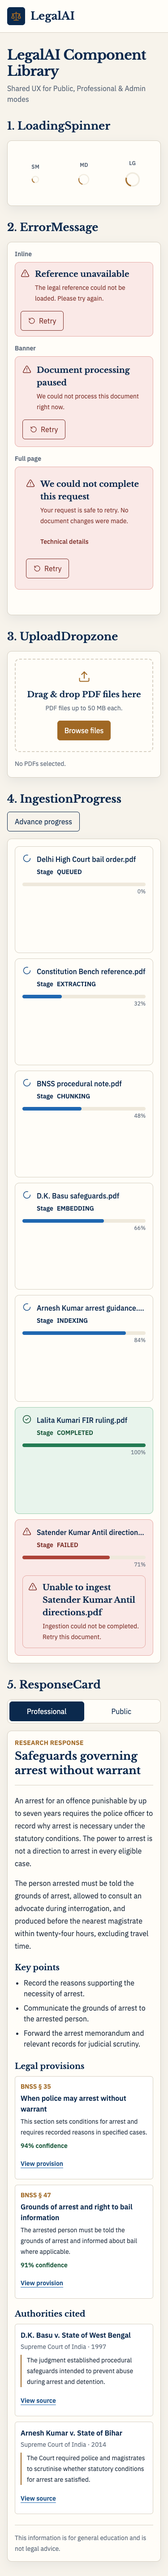
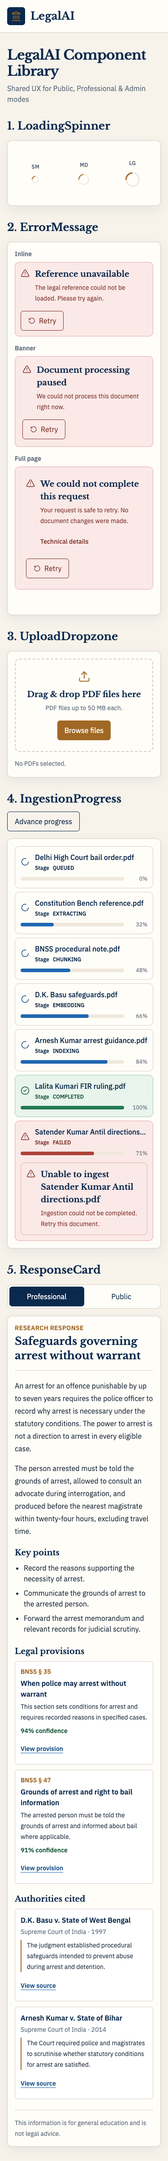
fix(ux): tighten responsive component preview

Changed region(s): [[0.0293, 0.0, 0.88, 0.9965], [0.9093, 0.5917, 0.9387, 0.6228], [0.7627, 0.0623, 0.792, 0.0934]]

diff --git a/frontend/components/shared/IngestionProgress.tsx b/frontend/components/shared/IngestionProgress.tsx
@@ -91,7 +91,7 @@ export function IngestionProgress({ jobs }: IngestionProgressProps) {
   }
 
   return (
-    <ul aria-label="Ingestion jobs" className="space-y-3" data-testid="ingestion-jobs">
+    <ul aria-label="Ingestion jobs" className="space-y-2" data-testid="ingestion-jobs">
       {jobs.map((job) => {
         const progress = clampProgress(job.progress);
         const isFailed = job.stage === 'FAILED';
@@ -108,17 +108,17 @@ export function IngestionProgress({ jobs }: IngestionProgressProps) {
 
         return (
           <li
-            className={`min-w-0 rounded-[var(--radius-standard)] border p-4 ${rowBorder} ${rowSurface}`}
+            className={`min-w-0 rounded-[var(--radius-standard)] border p-3 sm:p-4 ${rowBorder} ${rowSurface}`}
             key={job.id}
           >
-            <div className="flex min-w-0 items-start gap-3">
+            <div className="flex min-w-0 items-center gap-3">
               <StageIcon stage={job.stage} />
-              <div className="min-w-0 flex-1">
+              <div className="min-w-0 flex-1 sm:flex sm:items-center sm:justify-between sm:gap-3">
                 <p className="truncate font-medium text-[var(--color-ink)]" title={job.filename}>
                   {job.filename}
                 </p>
                 <p
-                  className={`mt-1 flex min-h-6 items-center gap-2 text-sm font-semibold ${stageLabelClass(job.stage)}`}
+                  className={`mt-1 flex shrink-0 items-center gap-2 text-xs font-semibold sm:mt-0 ${stageLabelClass(job.stage)}`}
                 >
                   <span>Stage</span>
                   <span>{job.stage}</span>
@@ -126,7 +126,7 @@ export function IngestionProgress({ jobs }: IngestionProgressProps) {
               </div>
             </div>
 
-            <div className="mt-3 min-h-8">
+            <div className="mt-2 flex items-center gap-3">
               <div
                 aria-label={`${job.filename} progress`}
                 aria-valuemax={100}
@@ -141,10 +141,12 @@ export function IngestionProgress({ jobs }: IngestionProgressProps) {
                   style={{ width: `${progress}%` }}
                 />
               </div>
-              <p className="mt-1 text-right text-xs text-[var(--color-muted)]">{progress}%</p>
+              <p className="w-10 shrink-0 text-right text-xs text-[var(--color-muted)]">
+                {progress}%
+              </p>
             </div>
 
-            <div className="mt-3 min-h-24">
+            <div className="empty:hidden empty:pt-0 pt-3" data-ingestion-error-region>
               {isFailed ? (
                 <ErrorMessage
                   message={fallbackFailureMessage}

diff --git a/frontend/components/shared/IngestionProgress.test.tsx b/frontend/components/shared/IngestionProgress.test.tsx
@@ -1,4 +1,4 @@
-import { cleanup, render, screen } from '@testing-library/react';
+import { cleanup, render, screen, within } from '@testing-library/react';
 import { afterEach, describe, expect, it } from 'vitest';
 
 import { IngestionProgress, type IngestionJob } from './IngestionProgress';
@@ -160,6 +160,36 @@ describe('IngestionProgress', () => {
     expect(screen.getByRole('progressbar', { name: 'polling.pdf progress' })).toHaveAttribute(
       'aria-valuenow',
       '48',
+    );
+  });
+
+  it('keeps the same reserved error region when a polling job fails', () => {
+    const { rerender } = render(
+      <IngestionProgress
+        jobs={[{ id: 'polling', filename: 'polling.pdf', stage: 'INDEXING', progress: 80 }]}
+      />,
+    );
+
+    const initialRow = screen.getByText('polling.pdf').closest('li');
+    const initialErrorRegion = initialRow?.querySelector('[data-ingestion-error-region]');
+
+    expect(initialRow).not.toBeNull();
+    expect(initialErrorRegion).not.toBeNull();
+    expect(within(initialErrorRegion as HTMLElement).queryByRole('alert')).not.toBeInTheDocument();
+
+    rerender(
+      <IngestionProgress
+        jobs={[{ id: 'polling', filename: 'polling.pdf', stage: 'FAILED', progress: 80 }]}
+      />,
+    );
+
+    const failedRow = screen.getByText('polling.pdf').closest('li');
+    const failedErrorRegion = failedRow?.querySelector('[data-ingestion-error-region]');
+
+    expect(failedRow).toBe(initialRow);
+    expect(failedErrorRegion).toBe(initialErrorRegion);
+    expect(within(failedErrorRegion as HTMLElement).getByRole('alert')).toHaveTextContent(
+      'Ingestion could not be completed. Retry this document.',
     );
   });
 });

diff --git a/frontend/app/dev/component-preview/PreviewGallery.tsx b/frontend/app/dev/component-preview/PreviewGallery.tsx
@@ -1,6 +1,6 @@
 'use client';
 
-import { Scale } from 'lucide-react';
+import { Landmark, Scale } from 'lucide-react';
 import { useState } from 'react';
 
 import {
@@ -62,7 +62,8 @@ export function PreviewGallery() {
             aria-hidden="true"
             className="inline-flex size-10 shrink-0 items-center justify-center rounded-[var(--radius-compact)] bg-[var(--color-ink)] text-[var(--color-brass)]"
           >
-            <Scale size={24} strokeWidth={1.8} />
+            <Landmark className="sm:hidden" size={24} strokeWidth={1.8} />
+            <Scale className="hidden sm:block" size={24} strokeWidth={1.8} />
           </span>
           <p className="font-[family-name:var(--font-display)] text-2xl font-semibold text-[var(--color-ink)]">
             LegalAI

diff --git a/frontend/app/dev/component-preview/PreviewGallery.test.tsx b/frontend/app/dev/component-preview/PreviewGallery.test.tsx
@@ -26,6 +26,17 @@ describe('PreviewGallery', () => {
     ]);
   });
 
+  it('provides the approved responsive brand marks as decorative graphics', () => {
+    render(<PreviewGallery />);
+
+    const banner = screen.getAllByRole('banner')[0];
+    const brandMark = banner.querySelector('[aria-hidden="true"]');
+
+    expect(brandMark).not.toBeNull();
+    expect(brandMark?.querySelector('svg.lucide-scale')).not.toBeNull();
+    expect(brandMark?.querySelector('svg.lucide-landmark')).not.toBeNull();
+  });
+
   it('demonstrates every shared component in order and switches response mode', async () => {
     const user = userEvent.setup();
 

diff --git a/frontend/app/globals.css b/frontend/app/globals.css
@@ -4,7 +4,7 @@
  * UI font families. Geometry, elevation, and motion tokens keep components
  * visually consistent and leave markup ready for a future dark theme.
  */
-@config "../tailwind.config.mts";
+@config "../tailwind.config.ts";
 @import 'tailwindcss';
 
 :root {
